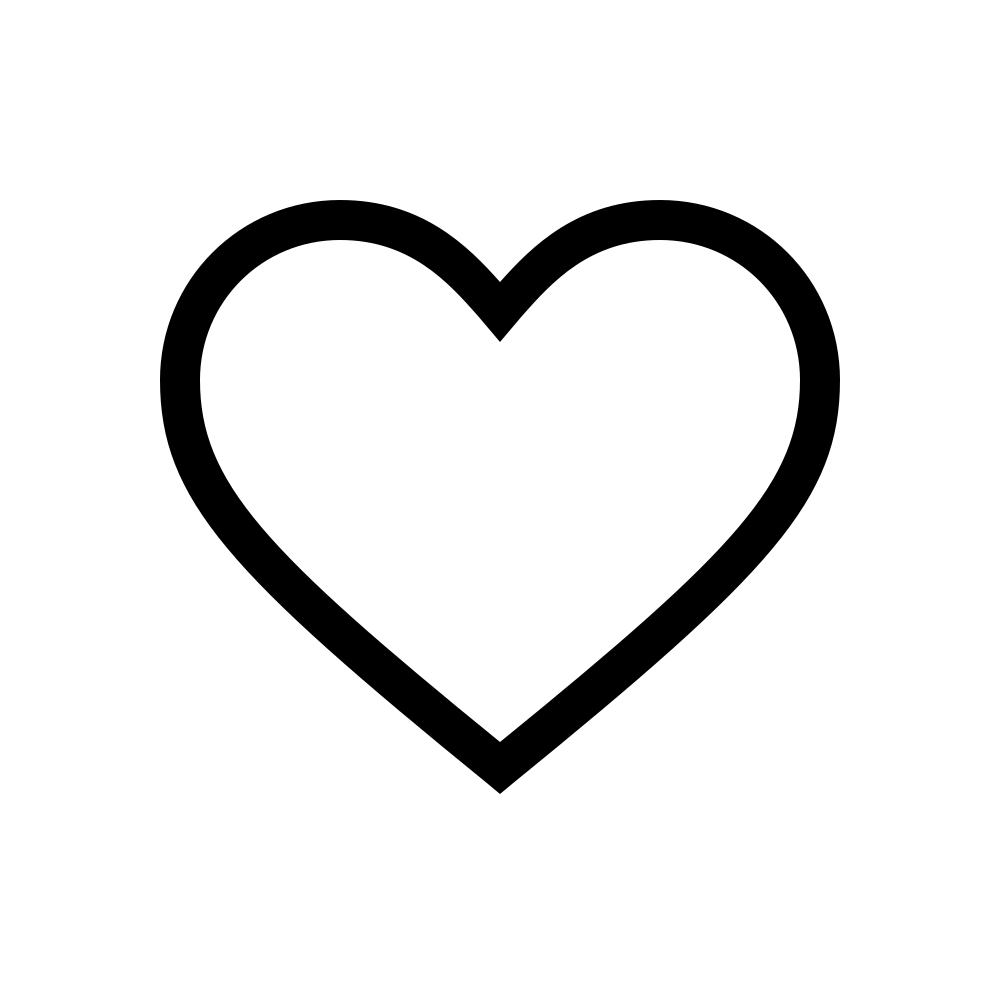
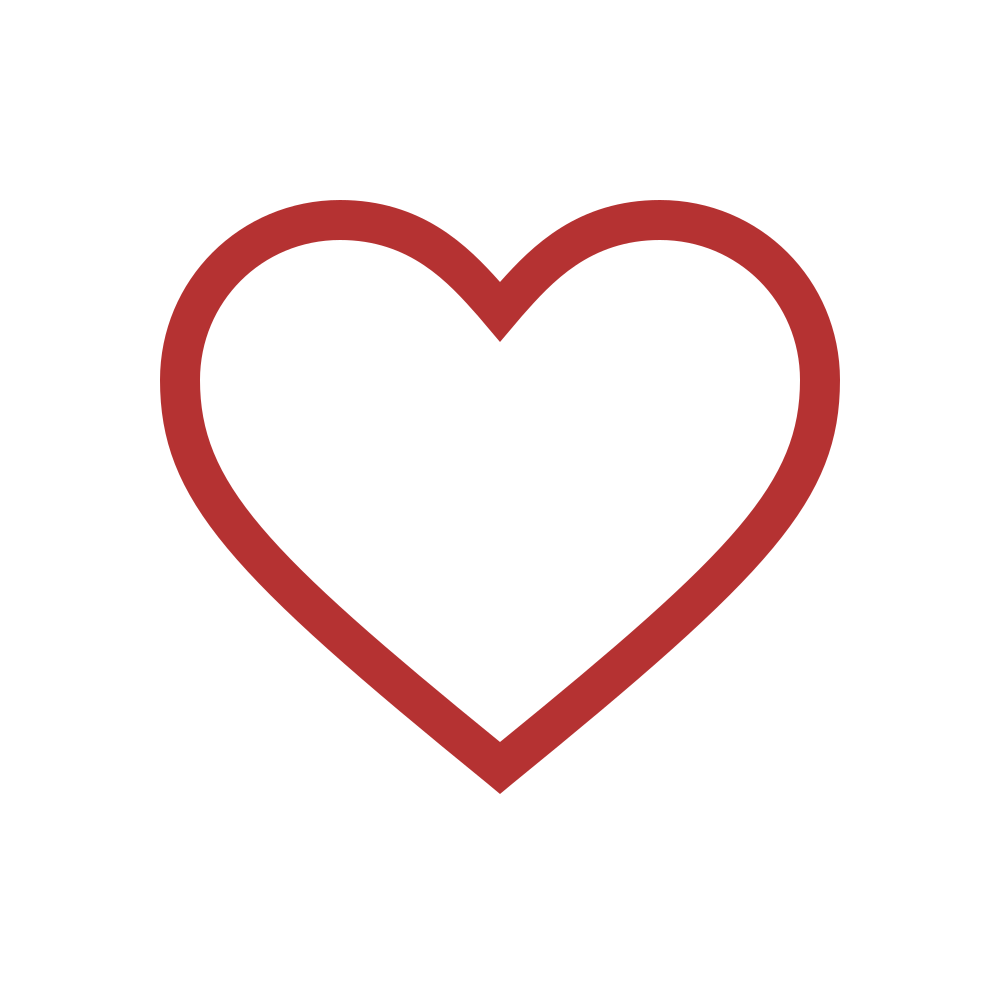
heart fix

Changed region(s): [[0.155, 0.186, 0.837, 0.806]]

diff --git a/src/components/detail/ItemDetail.js b/src/components/detail/ItemDetail.js
@@ -1,6 +1,8 @@
 import Template from '../Template';
 import html from './item-detail.html';
 import Image from './Image';
+import heart from './heart.png';
+import heartRed from './heart-red.png';
 
 import './item-detail.css';
 import { auth, db, storage } from '../../services/firebase';
@@ -62,6 +64,7 @@ export default class ItemDetail {
     const fav = dom.querySelector('.fav-flex');
     const byArtist = dom.querySelector('.by-artist');
     this.favWrapper = dom.querySelector('.favwrapper');
+    this.heart = dom.querySelector('.heart');
 
     this.onValue = this.item.on('value', data => {
       const item = data.val();
@@ -80,6 +83,7 @@ export default class ItemDetail {
         this.onFavoriteValue = this.favoriteRef.on('value', (data) => {
           // this.favHeader.textContent = data.val() ? 'remove favorite' : 'add to favorite';
           this.favHeader.innerHTML = data.val() ? '<span class="red">remove favorite</span>' : 'add to favorite';
+          this.heart.src = data.val() ? heartRed : heart;
         });
       } else {
         this.favWrapper.classList.toggle('hideFav');

diff --git a/src/components/detail/item-detail.html b/src/components/detail/item-detail.html
@@ -5,7 +5,7 @@
     <div class="item-text">
       <div class="favwrapper">
         <div class="fav-flex">
-          <img class="heart" src="heart.png">
+          <img class="heart" src="heart.png" alt="heart icon to save to favorites">
           <h4 class="fav"></h4>
         </div>
       </div>

diff --git a/src/components/detail/item-detail.css b/src/components/detail/item-detail.css
@@ -39,7 +39,7 @@
   padding: 0;
   transition: 0.3s ease all;
   &:hover {
-    color: red;
+    color: $accent;
   }
 }
 

diff --git a/src/components/variables.css b/src/components/variables.css
@@ -12,6 +12,6 @@ $black: #000000;
 $maxViewportSize: 1280px;
 $padding: 2rem;
 
-section {
+aside {
   color: #b53232;
 }
